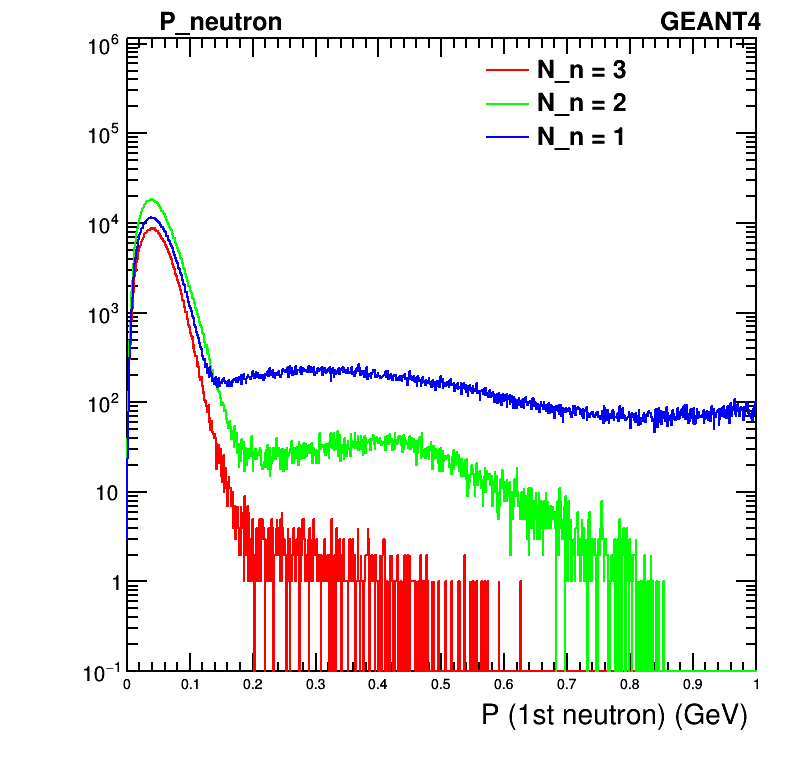
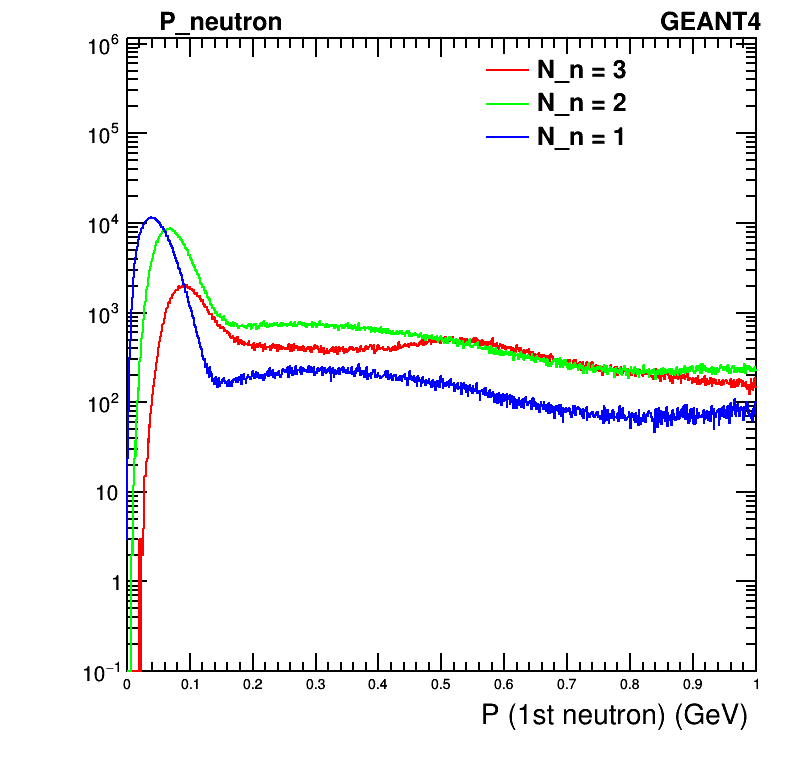
Deployed f417338 with MkDocs version: 1.2.3

diff --git a/SR1/residual_mass/index.html b/SR1/residual_mass/index.html
@@ -170,10 +170,19 @@ We want to check,  </p>
 Both generators show that background events are dominated by events coming from Z = 17 background.</p>
 <h3 id="neutron-momentum">Neutron momentum</h3>
 <p>To understand possibility of Z = 17 background rejection using neutron tagging, we need to check momentum of neutrons.</p>
+<ul>
+<li>Plots before applying mX cut.</li>
+</ul>
 <p><img src="../../plots/GEANT4/P_neutron_1st_SR1_All.png "  width="45%"  /> <img src="../../plots/FLUKA/P_neutron_1st_SR1_All.png" width="45%"/>
 <img src="../../plots/GEANT4/P_neutron_2nd_SR1_All.png "  width="45%"  /> <img src="../../plots/FLUKA/P_neutron_2nd_SR1_All.png" width="45%"/>
 <img src="../../plots/GEANT4/P_neutron_3rd_SR1_All.png "  width="45%"  /> <img src="../../plots/FLUKA/P_neutron_3rd_SR1_All.png" width="45%"/></p>
-<p>Most of the neutrons have momentum smaller than 150 MeV.</p></div>
+<p>Most of the neutrons have momentum smaller than 150 MeV.</p>
+<ul>
+<li>Plost after applying mX &lt; 36.1 GeV cut.</li>
+</ul>
+<p><img src="../../plots/GEANT4/P_neutron_1st_SR1_All_mXcut.png "  width="45%"  /> <img src="../../plots/FLUKA/P_neutron_1st_SR1_All_mXcut.png" width="45%"/>
+<img src="../../plots/GEANT4/P_neutron_2nd_SR1_All_mXcut.png "  width="45%"  /> <img src="../../plots/FLUKA/P_neutron_2nd_SR1_All_mXcut.png" width="45%"/>
+<img src="../../plots/GEANT4/P_neutron_3rd_SR1_All_mXcut.png "  width="45%"  /> <img src="../../plots/FLUKA/P_neutron_3rd_SR1_All_mXcut.png" width="45%"/></p></div>
         
         
     </div>

diff --git a/index.html b/index.html
@@ -290,5 +290,5 @@ SR4 : <span class="arithmatex"><span class="MathJax_Preview">{\pi}^{+} + {}^{40}
 
 <!--
 MkDocs version : 1.2.3
-Build Date UTC : 2022-04-07 04:48:53.365625+00:00
+Build Date UTC : 2022-04-07 04:56:59.198305+00:00
 -->
